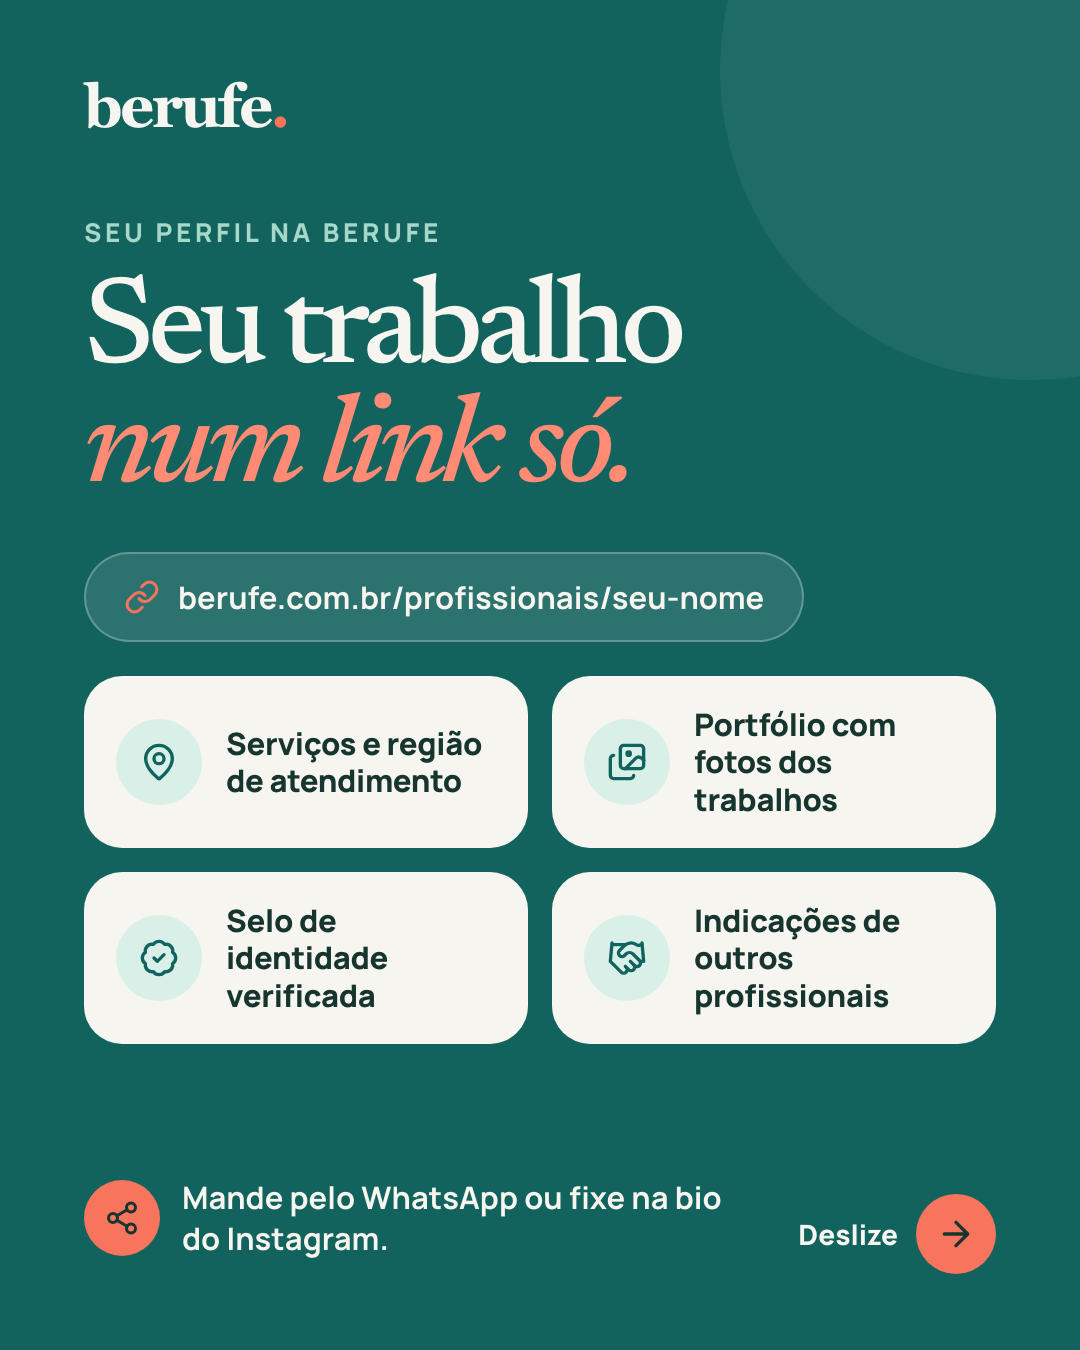
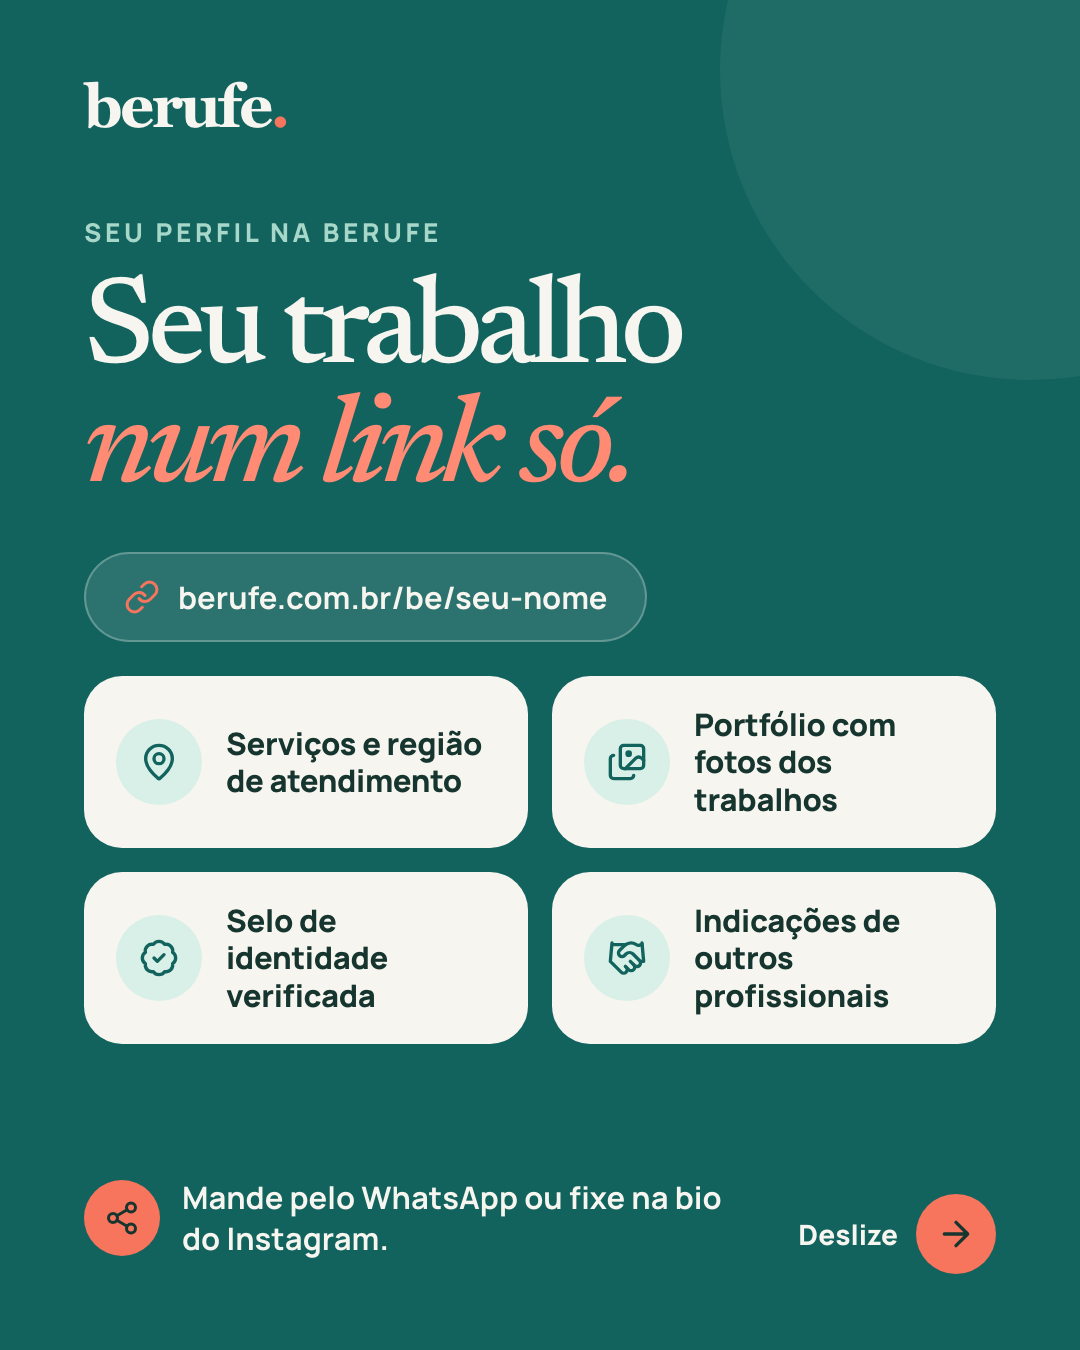
Fix the profile address shown on the professionals' slides
The slides showed berufe.com.br/profissionais/seu-nome, which is the
underlying page file. The address a professional actually shares is
/be/<slug> (buildPublicProfilePath in apps/web/app/utils/publicProfiles.ts),
with /profissionais/[slug] only aliasing to it. A wrong address on a slide
would send people to a URL they cannot reuse.

Changed region(s): [[0.3667, 0.4044, 0.7639, 0.4978]]

diff --git a/arts/instagram/posts/profissional_post_001/post.md b/arts/instagram/posts/profissional_post_001/post.md
@@ -27,7 +27,7 @@ carousel names three everyday pains, then answers each one with something the pr
 | --- | ---------------------- | ------------------------------------------------------------------------------------------------------------------------------------------ |
 | 1   | `slide-01-cover.png`    | Para quem presta serviços — chat: "Oi! Você tem fotos de trabalhos que já fez?" → "Claro! Dá uma olhada:" + link — **Mande um link.** — Seu perfil na Berufe reúne serviços, fotos dos trabalhos e contato direto. Selo "Perfil grátis". |
 | 2   | `slide-02-pains.png`    | Você conhece essa rotina? — Procurar fotos antigas… · Explicar tudo de novo… · Ser um desconhecido… — Existe um jeito mais simples.        |
-| 3   | `slide-03-profile.png`  | Seu trabalho num link só. — berufe.com.br/profissionais/seu-nome — Serviços e região · Portfólio · Selo de identidade verificada · Indicações — Mande pelo WhatsApp ou fixe na bio do Instagram. |
+| 3   | `slide-03-profile.png`  | Seu trabalho num link só. — berufe.com.br/be/seu-nome — Serviços e região · Portfólio · Selo de identidade verificada · Indicações — Mande pelo WhatsApp ou fixe na bio do Instagram. |
 | 4   | `slide-04-direct.png`   | Fale direto com o cliente. Sem pagar por isso. — R$ 0 por contato recebido · 0% de comissão sobre o serviço — Orçamento pelo WhatsApp      |
 | 5   | `slide-05-cta.png`      | Crie seu perfil grátis. — 1 Confirme celular ou e-mail · 2 Serviços e região · 3 Fotos e verificação quando quiser — Criar perfil grátis (link na bio) |
 
